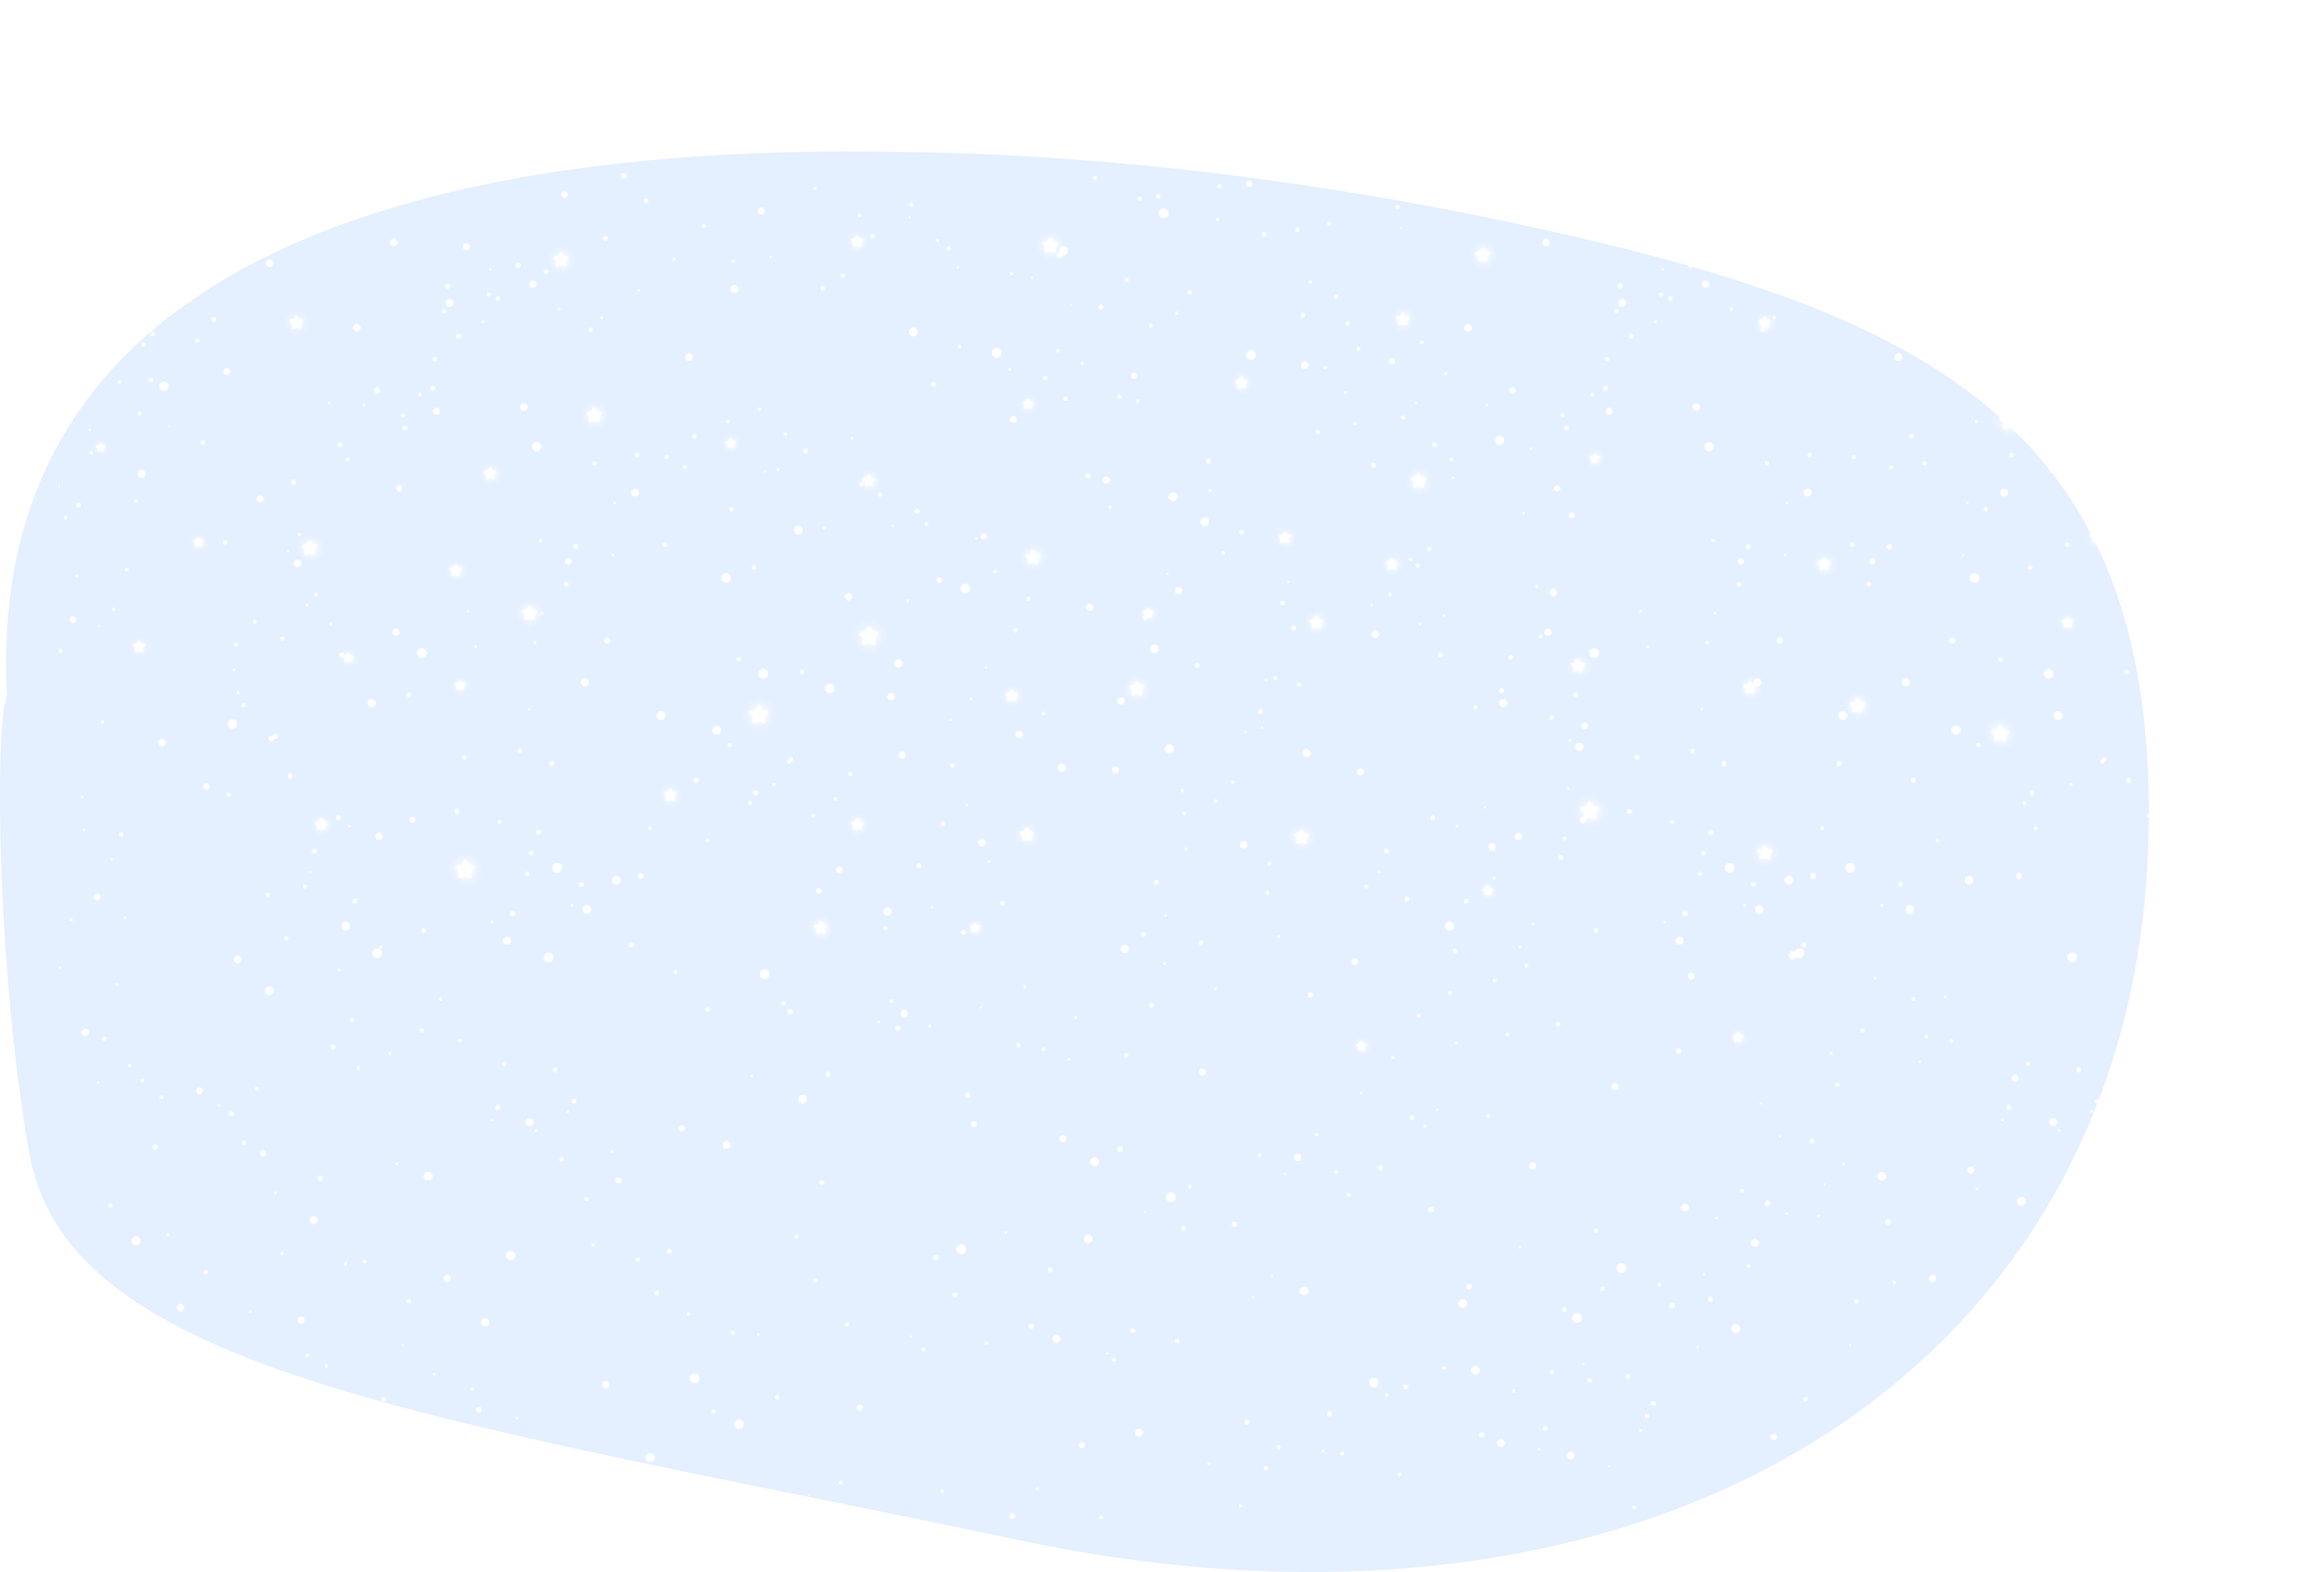
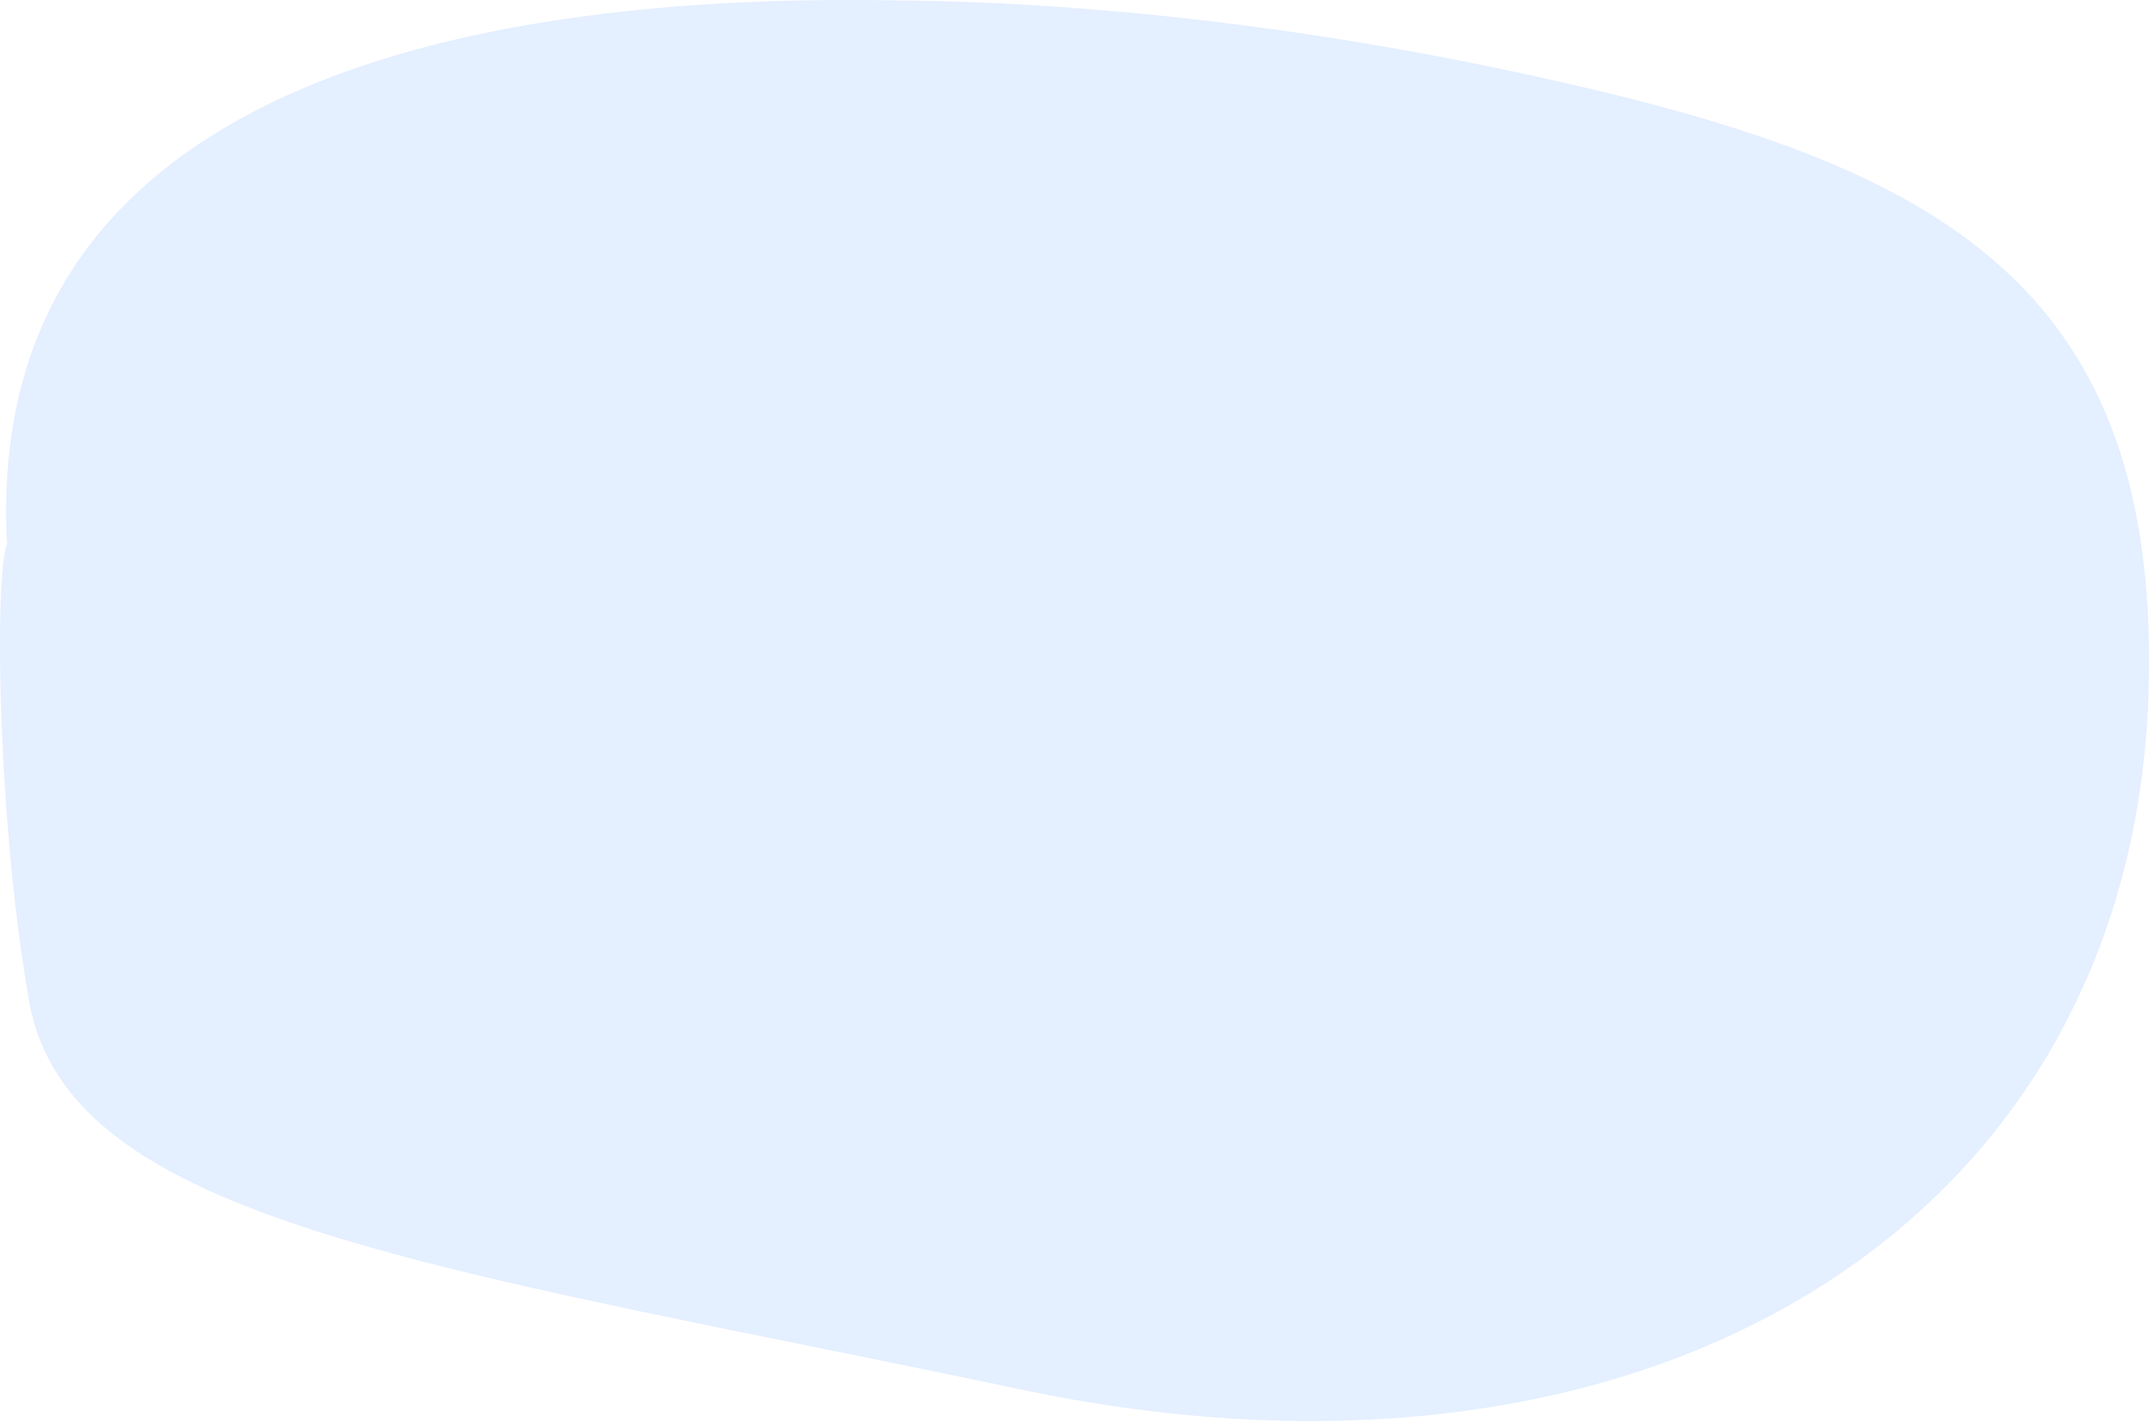
up

Changed region(s): [[0.0, 0.0, 1.0, 1.0], [0.0, 0.6861, 0.0309, 0.7797]]

diff --git a/works/myfolio/css/styles.css b/works/myfolio/css/styles.css
@@ -16,8 +16,7 @@ div {
     width: 100%;
     display: flex;
     align-items: center;
-    justify-content: center;
-    background-image: url("./../images/bg_header.png"); }
+    justify-content: center; }
     @media (max-width: 767px) {
       .header__container {
         padding: 20px; } }
@@ -110,12 +109,14 @@ div {
     .subtitle {
       margin: 0 0 24px;
       font-size: 18px;
-      line-height: 22px; } }
+      line-height: 22px;
+      padding: 0 20px; } }
   @media (min-width: 768px) and (max-width: 1199px) {
     .subtitle {
       margin: 0 0 40px;
+      padding: 0 40px;
       font-size: 24px;
-      line-height: 29px; } }
+      line-height: 46px; } }
   @media (min-width: 1200px) and (max-width: 1599px) {
     .subtitle {
       margin: 0 0 47px;
@@ -211,6 +212,15 @@ div {
     @media (max-width: 767px) {
       .houses__line-1 .houses__subline:last-child .house:nth-child(2) img {
         transform: scale(0.8) translate(-20px, 5px); } }
+    @media (min-width: 768px) {
+      .houses__line-1 .houses__subline:last-child .house:nth-child(2) img {
+        transform: scale(0.8) translate(-20px, 5px); } }
+    @media (min-width: 1200px) and (max-width: 1599px) {
+      .houses__line-1 .houses__subline:last-child .house:nth-child(2) img {
+        transform: scale(0.8) translate(-20px, 5px); } }
+    @media (min-width: 1600px) {
+      .houses__line-1 .houses__subline:last-child .house:nth-child(2) img {
+        transform: scale(0.8) translate(-40px, 15px); } }
   @media (max-width: 767px) {
     .houses__line-1, .houses__line-2, .houses__line-3, .houses__line-4 {
       flex-wrap: wrap; } }
@@ -218,7 +228,8 @@ div {
 .house {
   position: relative;
   width: 33%;
-  text-align: center; }
+  text-align: center;
+  cursor: pointer; }
   @media (min-width: 1024px) {
     .house:hover .house__button {
       display: block;
@@ -234,10 +245,8 @@ div {
       .house::after {
         display: none; } }
   .house__image {
-    height: 100%; }
-    @media (max-width: 767px) {
-      .house__image {
-        max-width: auto; } }
+    height: 100%;
+    object-fit: contain; }
   .house__button {
     display: none;
     z-index: 5;
@@ -376,6 +385,15 @@ div {
   z-index: 10;
   background: rgba(0, 0, 0, 0.35); }
 
+.snowContainer {
+  width: 100%;
+  height: 100%;
+  position: absolute;
+  top: 0;
+  left: 0;
+  z-index: 15;
+  pointer-events: none; }
+
 #snow {
   width: 100%;
   height: 100%;
@@ -456,6 +474,7 @@ div {
   margin-bottom: 16px;
   font-size: 18px;
   line-height: 21px;
+  font-weight: normal;
   text-align: center;
   font-family: "Lato", sans-serif; }
 

diff --git a/works/myfolio/scss/styles.scss b/works/myfolio/scss/styles.scss
@@ -22,8 +22,6 @@ div {
     align-items: center;
     justify-content: center;
 
-    background-image: url("./../images/bg_header.png");
-
     @media (max-width: 767px) {
       padding: 20px;
     }
@@ -129,11 +127,13 @@ div {
     margin: 0 0 24px;
     font-size: 18px;
     line-height: 22px;
+    padding: 0 20px;
   }
   @media (min-width: 768px) and (max-width: 1199px) {
     margin: 0 0 40px;
+    padding: 0 40px;
     font-size: 24px;
-    line-height: 29px;
+    line-height: 46px;
   }
   @media (min-width: 1200px) and (max-width: 1599px) {
     margin: 0 0 47px;
@@ -251,6 +251,17 @@ div {
     @media (max-width: 767px) {
       transform: scale(0.8) translate(-20px, 5px);
     }
+
+    @media (min-width: 768px) {
+      transform: scale(0.8) translate(-20px, 5px);
+    }
+
+    @media (min-width: 1200px) and (max-width: 1599px) {
+      transform: scale(0.8) translate(-20px, 5px);
+    }
+    @media (min-width: 1600px) {
+      transform: scale(0.8) translate(-40px, 15px);
+    }
   }
 
   &__line-1,
@@ -270,6 +281,7 @@ div {
   position: relative;
   width: 33%;
   text-align: center;
+  cursor: pointer;
 
   @media (min-width: 1024px) {
     &:hover &__button {
@@ -293,10 +305,7 @@ div {
 
   &__image {
     height: 100%;
-
-    @media (max-width: 767px) {
-      max-width: auto;
-    }
+    object-fit: contain;
   }
 
   &__button {
@@ -473,6 +482,16 @@ div {
   background: rgba(0, 0, 0, 0.35);
 }
 
+.snowContainer {
+  width: 100%;
+  height: 100%;
+  position: absolute;
+  top: 0;
+  left: 0;
+  z-index: 15;
+  pointer-events: none;
+}
+
 #snow {
   width: 100%;
   height: 100%;
@@ -576,6 +595,7 @@ div {
     margin-bottom: 16px;
     font-size: 18px;
     line-height: 21px;
+    font-weight: normal;
     text-align: center;
     font-family: "Lato", sans-serif;
   }

diff --git a/works/myfolio/js/main.js b/works/myfolio/js/main.js
@@ -88,7 +88,7 @@ $(document).ready(function () {
           `<div class="popup">
           
             <div class="popup__overlay">
-              <div id="snow"></div>
+              
             </div>
             <div class="popup__wrapper">
             <div class="popup__content">

diff --git a/works/myfolio/index.html b/works/myfolio/index.html
@@ -181,8 +181,11 @@
 			</div>
 		</div>
 	</footer>
+	<div class="snowContainer">
 
+		<div id="snow"></div>
 
+	</div>
 
 
 	<script type="text/javascript" src="https://cdn.jsdelivr.net/npm/slick-carousel@1.8.1/slick/slick.min.js"></script>
